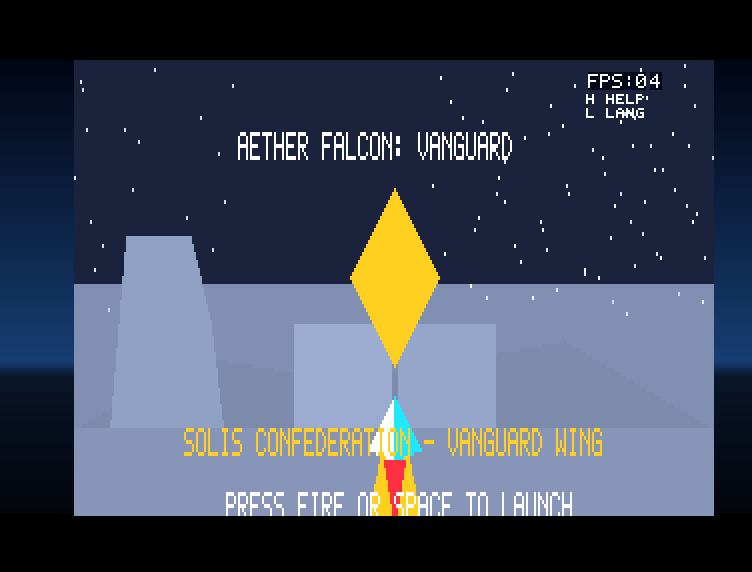
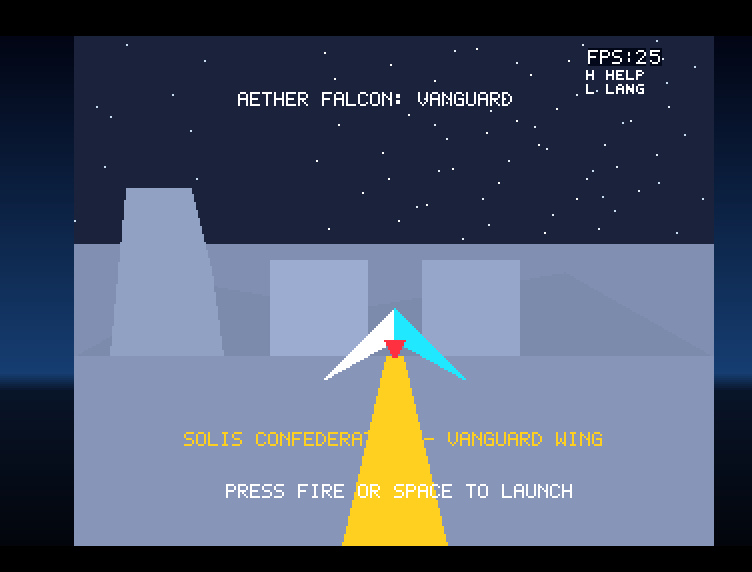
Release v0.0.3: update THEA1200 16:9 widescreen screenshots & final binaries

diff --git a/README.md b/README.md
@@ -17,7 +17,7 @@
 | Obóz / Profil (`--profile`) | Platforma docelowa | Paczki do pobrania |
 | :--- | :--- | :--- |
 | **1. Standard `020` (`--profile standard`)** | Bazowa **Amiga 1200 (`68EC020`)** + Fast RAM — tryb **`320×128`** | [.LHA](https://github.com) · [.ZIP (FS-UAE/WinUAE)](https://github.com) |
-| **2. THEA1200 (`--profile thea1200`)** | Konsola **THEA1200**, **Amiberry (PC)**, **FS-UAE** — pełny PAL **`320×256`** (`-DFULL_RES`) | [.LHA](https://github.com) · [.ZIP (FS-UAE/WinUAE)](https://github.com) |
+| **2. THEA1200 (`--profile thea1200`)** | Konsola **THEA1200**, **Amiberry (PC)**, **FS-UAE** — pełny PAL **`320×256`** **16:9 Widescreen** (`-DFULL_RES -DWIDESCREEN_16_9`) | [.LHA](https://github.com) · [.ZIP (FS-UAE/WinUAE)](https://github.com) |
 
 ---
 

diff --git a/README_EN.md b/README_EN.md
@@ -17,7 +17,7 @@
 | Profile (`--profile`) | Target Platform | Download Packages |
 | :--- | :--- | :--- |
 | **1. Standard `020` (`--profile standard`)** | Stock **Amiga 1200 (`68EC020`)** + Fast RAM — **`320×128`** mode | [.LHA](https://github.com) · [.ZIP (FS-UAE/WinUAE)](https://github.com) |
-| **2. THEA1200 (`--profile thea1200`)** | **THEA1200**, **Amiberry (PC)**, **FS-UAE** — full PAL **`320×256`** (`-DFULL_RES`) | [.LHA](https://github.com) · [.ZIP (FS-UAE/WinUAE)](https://github.com) |
+| **2. THEA1200 (`--profile thea1200`)** | **THEA1200**, **Amiberry (PC)**, **FS-UAE** — full PAL **`320×256`** **16:9 Widescreen** (`-DFULL_RES -DWIDESCREEN_16_9`) | [.LHA](https://github.com) · [.ZIP (FS-UAE/WinUAE)](https://github.com) |
 
 ---
 
